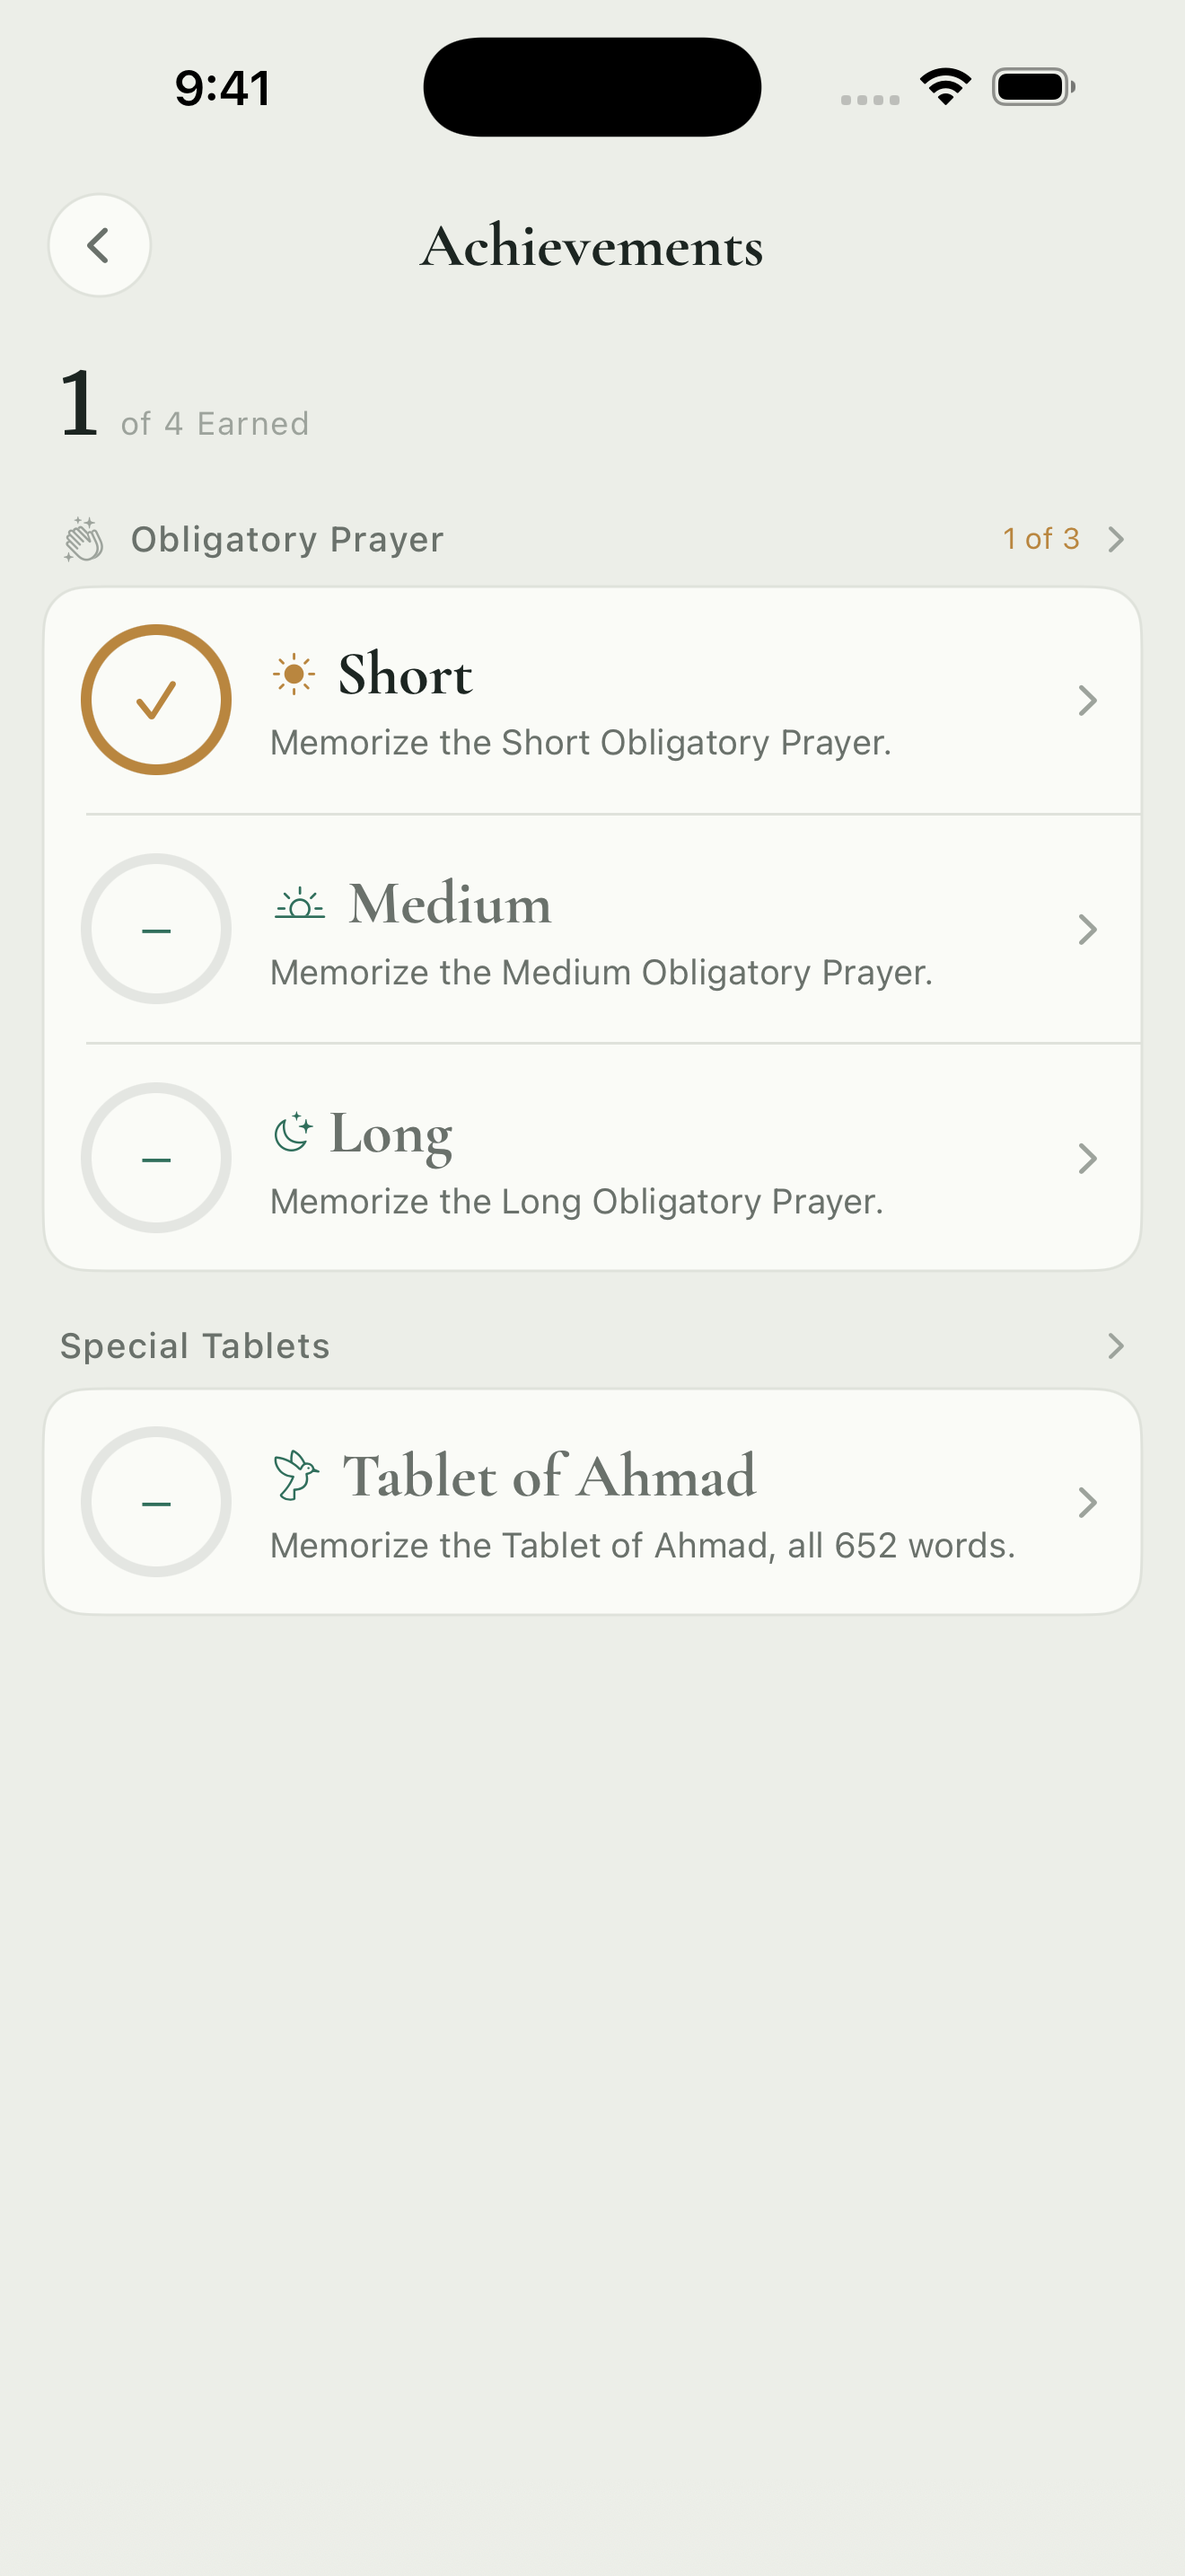
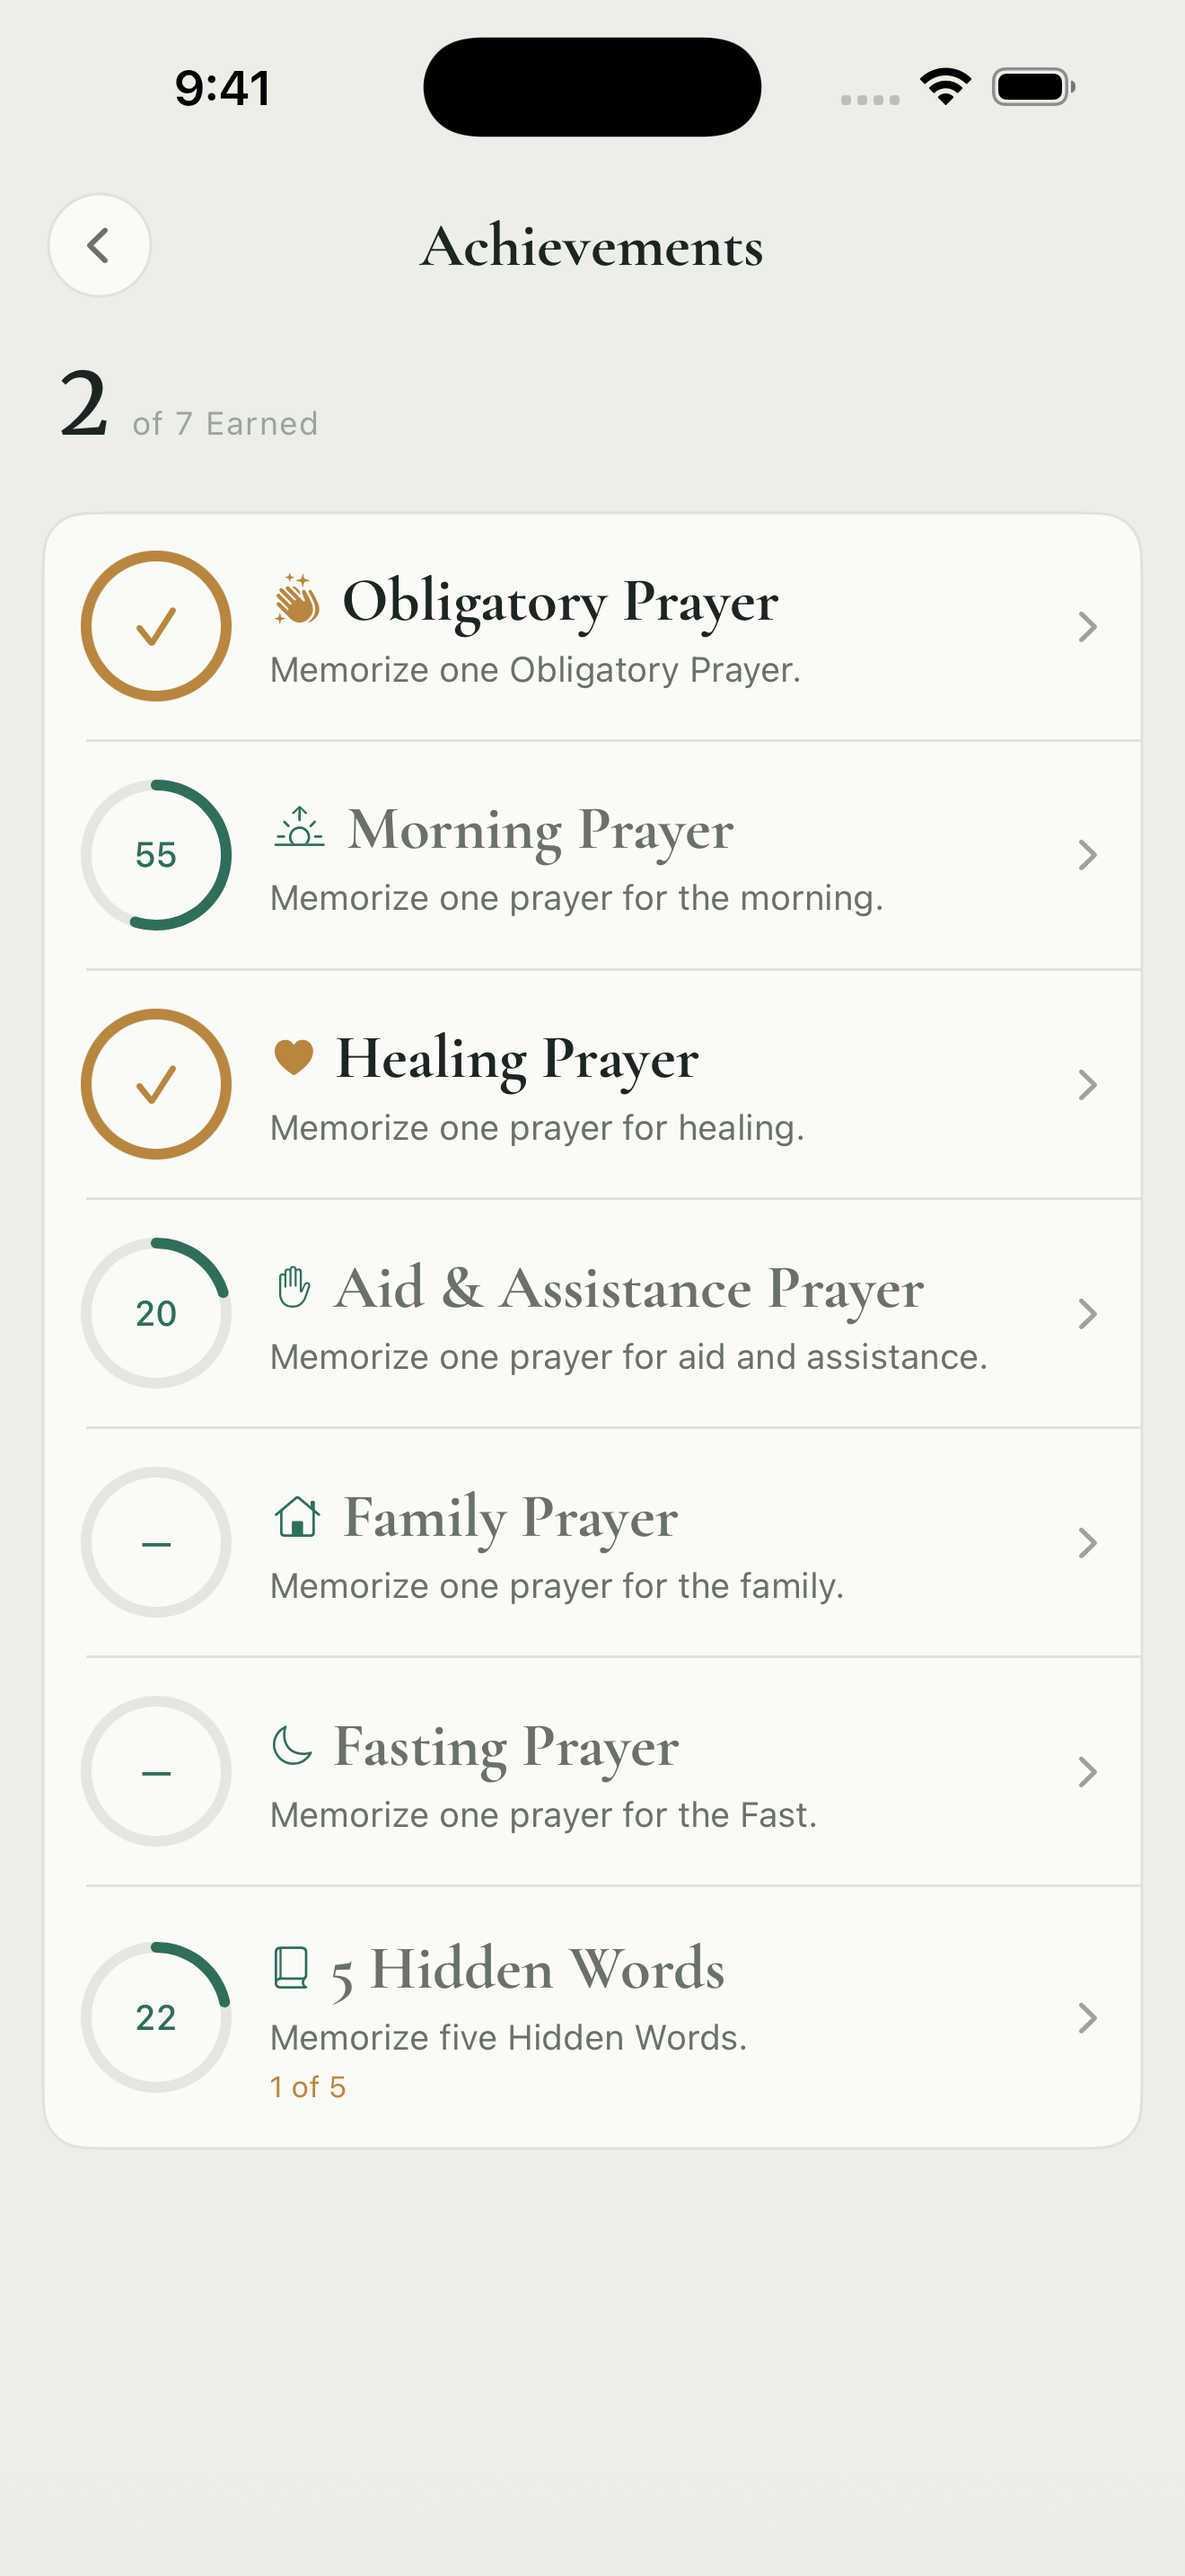
Rebuild the achievements App Store screenshot
The shot still showed the old grouped catalog. Reshoot it against the
current flat seven-achievement list, seeded so the screen shows two
earned badges and three rings in progress rather than a column of dashes.

diff --git a/store-screenshots/tools/seed.py b/store-screenshots/tools/seed.py
@@ -72,6 +72,18 @@ PICKS = [
     ("My first counsel is this", "From the Arabic",  1, [0.45]),
 ]
 
+# extra passages that only the achievements shot needs: one more earned badge and
+# two rings part-way round, so the screen is not a column of untouched dashes
+ACHIEVEMENT_PICKS = [
+    ("Thy name is my healing", "General Prayers",   1, [1.0]),
+    ("I have wakened in Thy shelter", "General Prayers", 1, [0.55]),
+    ("I have detached myself from my kindred", "General Prayers", 1, [0.2]),
+    ("Love Me, that I may love thee", "From the Arabic", 1, [1.0, 1.0]),
+]
+
+if os.environ.get("ACHIEVEMENTS"):
+    PICKS += ACHIEVEMENT_PICKS
+
 passages, reviewables = [], []
 now = datetime.datetime.now(datetime.timezone.utc)
 REF = datetime.datetime(2001, 1, 1, tzinfo=datetime.timezone.utc)

diff --git a/store-screenshots/README.md b/store-screenshots/README.md
@@ -18,6 +18,7 @@ Upload order matters — the first two are what people see in search results.
 4. `4-preview.png` — reading a Hidden Word before memorizing it
 5. `5-dark.png` — the same passage in dark
 6. `6-library-dark.png`, `7-hidden-words.png`, `8-achievements.png` — spares
+   (`8-achievements.png` needs the `ACHIEVEMENTS=1` seed — see below)
 
 If you drop the iPad build (`TARGETED_DEVICE_FAMILY = 1`), `ipad-13/` is no longer needed.
 
@@ -40,6 +41,10 @@ show, and sets `hasSeenWelcomeTour` so the guided tour does not cover the first 
 `PICKS` names passages by a substring of their text or heading. The library is rebuilt
 from bahai.org from time to time and passages do disappear — if `seed.py` exits with
 `not found:`, pick a replacement of a similar shape rather than forcing the old one back.
+
+`ACHIEVEMENTS=1` appends four more passages that only `8-achievements.png` needs — a
+second earned badge and three rings part-way round, so the screen is not a column of
+untouched dashes. Leave it unset for every other shot; it adds rows to the library.
 
 `HERO_GROUP` sets how many source lines make up one chunk of the session hero passage.
 Leave it at the default `2` for iPhone; use `3` for iPad, where a smaller chunk floats in
